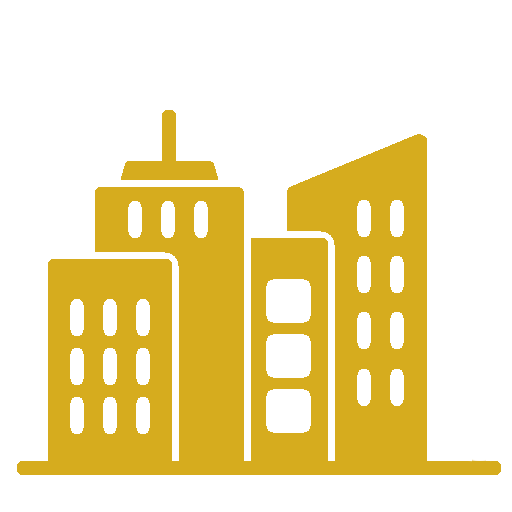
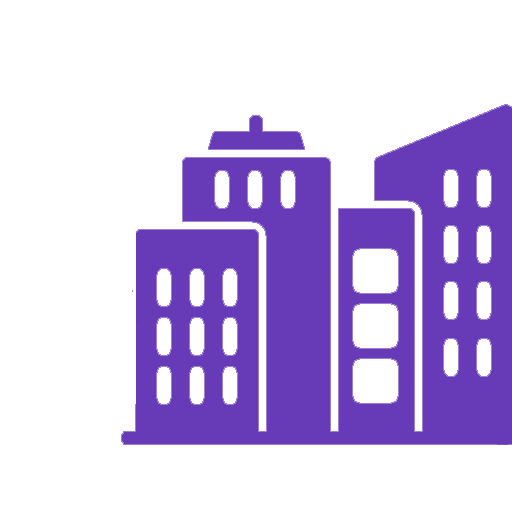
Icones et traductions

diff --git a/Languages/fre.ts b/Languages/fre.ts
@@ -287,12 +287,12 @@
     <message>
         <location filename="../Sources/Qml/Vues/PopupSettingsForm.ui.qml" line="197"/>
         <source>Map Provider:</source>
-        <translation type="unfinished"></translation>
+        <translation>Fournisseur des cartes:</translation>
     </message>
     <message>
         <location filename="../Sources/Qml/Vues/PopupSettingsForm.ui.qml" line="216"/>
         <source>Map theme:</source>
-        <translation type="unfinished"></translation>
+        <translation>Type de carte:</translation>
     </message>
     <message>
         <location filename="../Sources/Qml/Vues/PopupSettingsForm.ui.qml" line="259"/>
@@ -467,7 +467,7 @@
         <translation>Mémorise la position de la photo courante</translation>
     </message>
     <message>
-        <location filename="../Sources/Qml/Vues/ToolbarMapForm.ui.qml" line="87"/>
+        <location filename="../Sources/Qml/Vues/ToolbarMapForm.ui.qml" line="75"/>
         <source>Apply the stored position to the current photo</source>
         <translation>Applique la position mémorisée à la photo courante</translation>
     </message>
@@ -477,12 +477,12 @@
         <translation>Recharge les coordonnées initiales de l&apos;image</translation>
     </message>
     <message>
-        <location filename="../Sources/Qml/Vues/ToolbarMapForm.ui.qml" line="73"/>
+        <location filename="../Sources/Qml/Vues/ToolbarMapForm.ui.qml" line="88"/>
         <source>Clear Saved Position</source>
         <translation>Suppr. Position</translation>
     </message>
     <message>
-        <location filename="../Sources/Qml/Vues/ToolbarMapForm.ui.qml" line="85"/>
+        <location filename="../Sources/Qml/Vues/ToolbarMapForm.ui.qml" line="73"/>
         <source>Apply Saved Position</source>
         <translation>Applique Position</translation>
     </message>
@@ -671,18 +671,18 @@
 <context>
     <name>ZoneSuggestedLocationsForm.ui</name>
     <message>
-        <location filename="../Sources/Qml/Vues/ZoneSuggestedLocationsForm.ui.qml" line="16"/>
+        <location filename="../Sources/Qml/Vues/ZoneSuggestedLocationsForm.ui.qml" line="15"/>
         <source>These suggestions are based on the photo GPS metadata, thanks to the free OpenStreetMap service.
 Limited to 100 requests per day.</source>
         <translation>Suggestions basées sur la position GPS de la photo, grace au service gratuit et opensource OpenStreetMap.\nLimité à 100 requètes par jour.</translation>
     </message>
     <message>
-        <location filename="../Sources/Qml/Vues/ZoneSuggestedLocationsForm.ui.qml" line="23"/>
+        <location filename="../Sources/Qml/Vues/ZoneSuggestedLocationsForm.ui.qml" line="24"/>
         <source>Search</source>
         <translation>Chercher</translation>
     </message>
     <message>
-        <location filename="../Sources/Qml/Vues/ZoneSuggestedLocationsForm.ui.qml" line="28"/>
+        <location filename="../Sources/Qml/Vues/ZoneSuggestedLocationsForm.ui.qml" line="27"/>
         <source>Search geodata on Internet</source>
         <translation>Recherche de données géographiques sur Internet</translation>
     </message>

diff --git a/Languages/eng.ts b/Languages/eng.ts
@@ -301,12 +301,12 @@
     <message>
         <location filename="../Sources/Qml/Vues/PopupSettingsForm.ui.qml" line="197"/>
         <source>Map Provider:</source>
-        <translation type="unfinished"></translation>
+        <translation>Map Provider:</translation>
     </message>
     <message>
         <location filename="../Sources/Qml/Vues/PopupSettingsForm.ui.qml" line="216"/>
         <source>Map theme:</source>
-        <translation type="unfinished"></translation>
+        <translation>Map theme:</translation>
     </message>
     <message>
         <location filename="../Sources/Qml/Vues/PopupSettingsForm.ui.qml" line="259"/>
@@ -467,17 +467,17 @@
         <translation>Store the position of the current photo</translation>
     </message>
     <message>
-        <location filename="../Sources/Qml/Vues/ToolbarMapForm.ui.qml" line="87"/>
+        <location filename="../Sources/Qml/Vues/ToolbarMapForm.ui.qml" line="75"/>
         <source>Apply the stored position to the current photo</source>
         <translation>Apply the stored position to the current photo</translation>
     </message>
     <message>
-        <location filename="../Sources/Qml/Vues/ToolbarMapForm.ui.qml" line="73"/>
+        <location filename="../Sources/Qml/Vues/ToolbarMapForm.ui.qml" line="88"/>
         <source>Clear Saved Position</source>
         <translation>Clear Saved Position</translation>
     </message>
     <message>
-        <location filename="../Sources/Qml/Vues/ToolbarMapForm.ui.qml" line="85"/>
+        <location filename="../Sources/Qml/Vues/ToolbarMapForm.ui.qml" line="73"/>
         <source>Apply Saved Position</source>
         <translation>Apply Saved Position</translation>
     </message>
@@ -671,18 +671,18 @@
 <context>
     <name>ZoneSuggestedLocationsForm.ui</name>
     <message>
-        <location filename="../Sources/Qml/Vues/ZoneSuggestedLocationsForm.ui.qml" line="16"/>
+        <location filename="../Sources/Qml/Vues/ZoneSuggestedLocationsForm.ui.qml" line="15"/>
         <source>These suggestions are based on the photo GPS metadata, thanks to the free OpenStreetMap service.
 Limited to 100 requests per day.</source>
         <translation>These suggestions are based on the photo GPS metadata, thanks to the free OpenStreetMap service.&lt;br/&gt;Limited to 100 requests per day.</translation>
     </message>
     <message>
-        <location filename="../Sources/Qml/Vues/ZoneSuggestedLocationsForm.ui.qml" line="23"/>
+        <location filename="../Sources/Qml/Vues/ZoneSuggestedLocationsForm.ui.qml" line="24"/>
         <source>Search</source>
         <translation>Search</translation>
     </message>
     <message>
-        <location filename="../Sources/Qml/Vues/ZoneSuggestedLocationsForm.ui.qml" line="28"/>
+        <location filename="../Sources/Qml/Vues/ZoneSuggestedLocationsForm.ui.qml" line="27"/>
         <source>Search geodata on Internet</source>
         <translation>Search geodata on Internet</translation>
     </message>

diff --git a/Sources/Qml/Vues/ToolbarMapForm.ui.qml b/Sources/Qml/Vues/ToolbarMapForm.ui.qml
@@ -68,18 +68,6 @@ Item {
     }
 
     Button {
-        id: bt_remove_savedpos
-        enabled: false
-        text: qsTr("Clear Saved Position")
-        icon.source: "qrc:/Images/bt-clear.png"
-        anchors {
-            left: bt_save_pos.right
-            leftMargin: 20
-            verticalCenter: parent.verticalCenter
-        }
-    }
-
-    Button {
         id: bt_apply_savedpos
         enabled: false
         text: qsTr("Apply Saved Position")
@@ -88,7 +76,19 @@ Item {
         ToolTip.visible: hovered
         ToolTip.delay: 500
         anchors {
-            left: bt_remove_savedpos.right
+            left: bt_save_pos.right
+            leftMargin: 20
+            verticalCenter: parent.verticalCenter
+        }
+    }
+
+    Button {
+        id: bt_remove_savedpos
+        enabled: false
+        text: qsTr("Clear Saved Position")
+        icon.source: "qrc:/Images/bt-clear.png"
+        anchors {
+            left: bt_apply_savedpos.right
             leftMargin: 20
             verticalCenter: parent.verticalCenter
         }
@@ -101,7 +101,7 @@ Item {
         to: 4000 // unité = 1 mètre
         //onMoved: slider_label.text = Math.round(slider_radius.value/10)/100 + " km"
         anchors {
-            left: bt_apply_savedpos.right
+            left: bt_remove_savedpos.right
             leftMargin: 20
             verticalCenter: parent.verticalCenter
         }

diff --git a/Sources/Qml/Vues/PopupSettingsForm.ui.qml b/Sources/Qml/Vues/PopupSettingsForm.ui.qml
@@ -13,7 +13,7 @@ import "../Components"
 Popup {
     id: settingsForm
     width: 560
-    height: 700
+    height: 720
     property alias buttonClose: buttonClose
     property alias settings: settings
     modal: true
@@ -246,8 +246,8 @@ Popup {
                     RoundButton {
                         icon.source: "qrc:/Images/bt-eye.png"
                         flat: true
-                        implicitHeight: 36
-                        implicitWidth: 36
+                        implicitHeight: 42
+                        implicitWidth: 42
                         onClicked: parent.apiKeyVisible = !parent.apiKeyVisible
                     }
                 }
